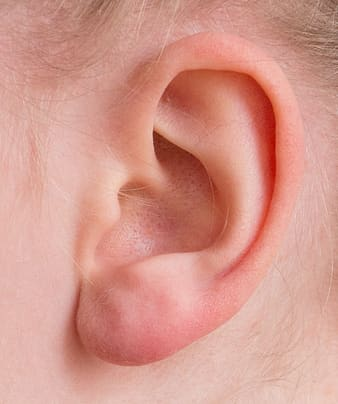
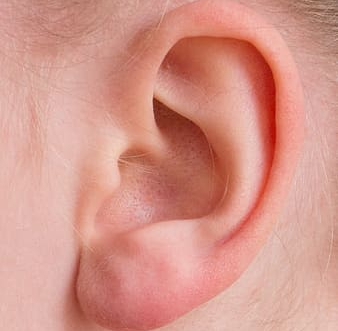
Team updated, lab images behave the same

diff --git a/index.html b/index.html
@@ -159,14 +159,14 @@
           </div>
         </div>
         <div class="row">
-          <div class="col-md-4 col-sm-6 portfolio-item">
+          <div class="col-md-4 col-md-4 portfolio-item">
             <a
               class="portfolio-link"
               href="http://all.rit.edu/Lab1/"
               target="_blank"
             >
               <img
-                class="img-fluid  thumbnail"
+                class="img-fluid"
                 style="border:2px solid black"
                 src="img/labs/ear.jpg"
                 alt="Deaf and Hard of Hearing Activity Thumbnail"
@@ -213,14 +213,14 @@
           </div>
 
           <div class="row">
-            <div class="col-md-4 col-sm-6 portfolio-item">
+            <div class="col-md-4 col-md-4 portfolio-item">
               <a
                 class="portfolio-link"
                 href="http://all.rit.edu/Lab3/"
                 target="_blank"
               >
                 <img
-                  class="img-fluid thumbnail"
+                  class="img-fluid"
                   style="border:2px solid black"
                   src="img/labs/braille.jpg"
                   alt="Screen Reader Activity Thumbnail"
@@ -246,7 +246,7 @@
                 target="_blank"
               >
                 <img
-                  class="img-fluid thumbnail"
+                  class="img-fluid"
                   style="border:2px solid black"
                   src="img/labs/hand.png"
                   alt="Dexterity activity Thumbnail"
@@ -350,14 +350,28 @@
     <div class="row">
       <div class="col-sm-4">
         <div class="team-member">
-          <a href="https://sxm3888.github.io" target="_blank">
+          <a href="https://www.linkedin.com/in/komalsorte" target="_blank">
           <img
             class="mx-auto rounded-circle"
-            src="img/team/mattia.jpg"
-            alt="Savannah Mattia"
+            src="img/team/sorte.jpg"
+            alt="Komal Sorte"
           />
         </a>
-          <h4>Savannah Mattia</h4>
+          <h4>Komal Sorte</h4>
+          <p class="">Activity Engineer</p>
+        </div>
+      </div>
+
+      <div class="col-sm-4">
+        <div class="team-member">
+          <a href="https://www.manalichakraborty.com" target="_blank">
+            <img
+                    class="mx-auto rounded-circle"
+                    src="img/team/chakraborty.jpg"
+                    alt="Manali Chakraborty"
+            />
+          </a>
+          <h4>Manali Chakraborty</h4>
           <p class="">Activity Engineer</p>
         </div>
       </div>
@@ -373,8 +387,52 @@
           <p class="">Accessibility Expert</p>
         </div>
       </div>
-
     </div>
+
+
+        <div class="row">
+          <div class="col-sm-4">
+            <div class="team-member">
+              <a href="https://www.linkedin.com/in/heather-moses" target="_blank">
+                <img
+                        class="mx-auto rounded-circle"
+                        src="img/team/moses.jpg"
+                        alt="Heather Moses"
+                />
+              </a>
+              <h4>Heather Moses</h4>
+              <p class="">Activity Engineer</p>
+            </div>
+          </div>
+
+          <div class="col-sm-4">
+            <div class="team-member">
+              <a href="https://www.linkedin.com/in/allison-jankowski-71611a1a2" target="_blank">
+                <img
+                        class="mx-auto rounded-circle"
+                        src="img/team/jankowski.jpg"
+                        alt="Allison Jankowski"
+                />
+              </a>
+              <h4>Allison Jankowski</h4>
+              <p class="">Activity Engineer</p>
+            </div>
+          </div>
+
+          <div class="col-sm-4">
+            <div class="team-member">
+              <a href="" target="_blank">
+                <img
+                        class="mx-auto rounded-circle"
+                        src="img/team/karnawat.jpg"
+                        alt="Sakshi Karnawat"
+                />
+              </a>
+              <h4>Sakshi Karnawat</h4>
+              <p class="">Activity Engineer</p>
+            </div>
+          </div>
+        </div>
   </div>
 
         <div class="row">

diff --git a/css/style.css b/css/style.css
@@ -28,7 +28,7 @@ a.icon:hover {
 
 .btn-primary {
   background-color: #fed136;
-  border-color: #800080;
+  border-color: #fed135;
   color: #404040 !important;
 }
 
@@ -81,7 +81,7 @@ header.masthead {
   background-color: black;
 }
 .navbar-toggler {
-  background-color: #800080;
+  background-color: #fed135;
   border-color: #fed136;
   color: #404040 !important;
 }

diff --git a/vendor/bootstrap/css/bootstrap.css b/vendor/bootstrap/css/bootstrap.css
@@ -477,8 +477,8 @@ mark,
 }
 
 .img-fluid {
-  max-width: 100%;
-  height: auto;
+  width: auto;
+  max-height: 100%;
 }
 
 .img-thumbnail {
@@ -613,6 +613,7 @@ pre code {
 .col-xl-auto {
   position: relative;
   width: 100%;
+
   padding-right: 15px;
   padding-left: 15px;
 }

diff --git a/frontend/src/components/header/navbar.js b/frontend/src/components/header/navbar.js
@@ -1,5 +1,4 @@
 import React from 'react';
-
 const Navbar = () => {
   return (
     <div className='navigation'>
